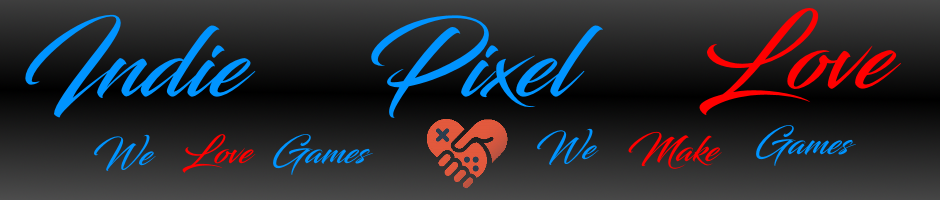
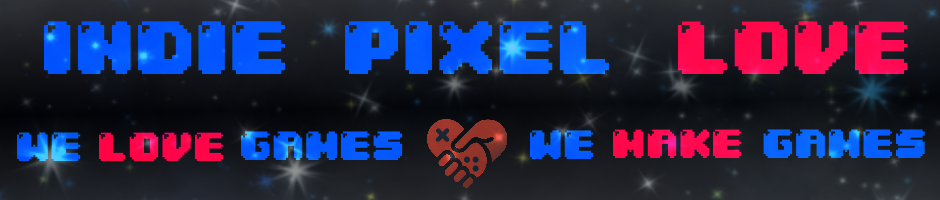
Update baneer

diff --git a/Projets/Site_Web_Mes_jeux/styles.css b/Projets/Site_Web_Mes_jeux/styles.css
@@ -63,7 +63,7 @@ header {
     width: 940px;
     height: 200px;
     margin: 0 auto;
-    background: #fff url(images/ban.png) no-repeat left top;
+    background: #fff url(images/ban1.png) no-repeat left top;
 }
 
 #main {
